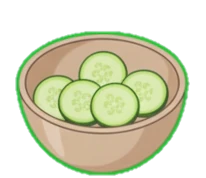
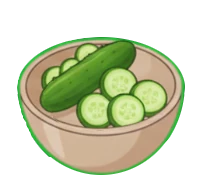
Correción de imagenes de alimentos en el 1er minijuego v3

diff --git a/js/juegoA.js b/js/juegoA.js
@@ -307,11 +307,6 @@ export function init() {
       i.src = "src/game-a/goodfood-j.webp";
       return i;
     })(),
-    (() => {
-      const i = new Image();
-      i.src = "src/game-a/goodfood-k.webp";
-      return i;
-    })(),
   ];
 
   imgBad = [
@@ -363,11 +358,6 @@ export function init() {
     (() => {
       const i = new Image();
       i.src = "src/game-a/badfood-j.webp";
-      return i;
-    })(),
-    (() => {
-      const i = new Image();
-      i.src = "src/game-a/badfood-k.webp";
       return i;
     })(),
   ];
